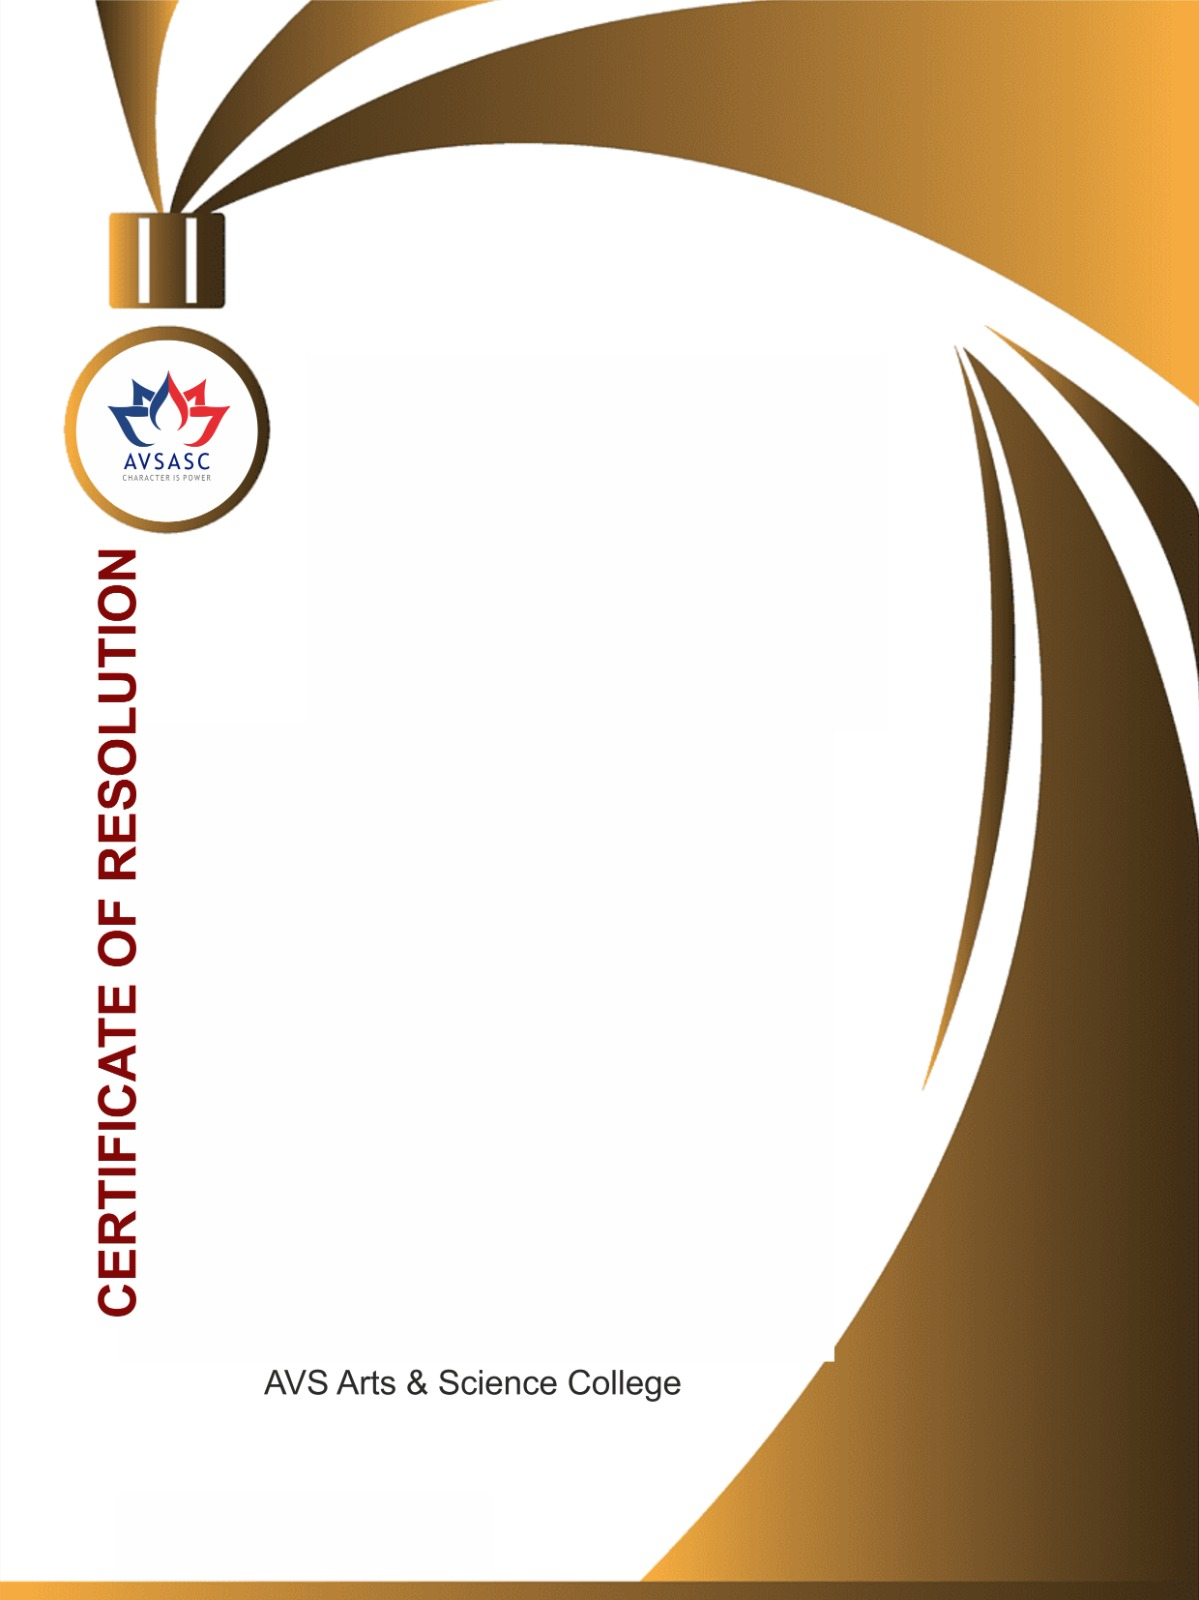
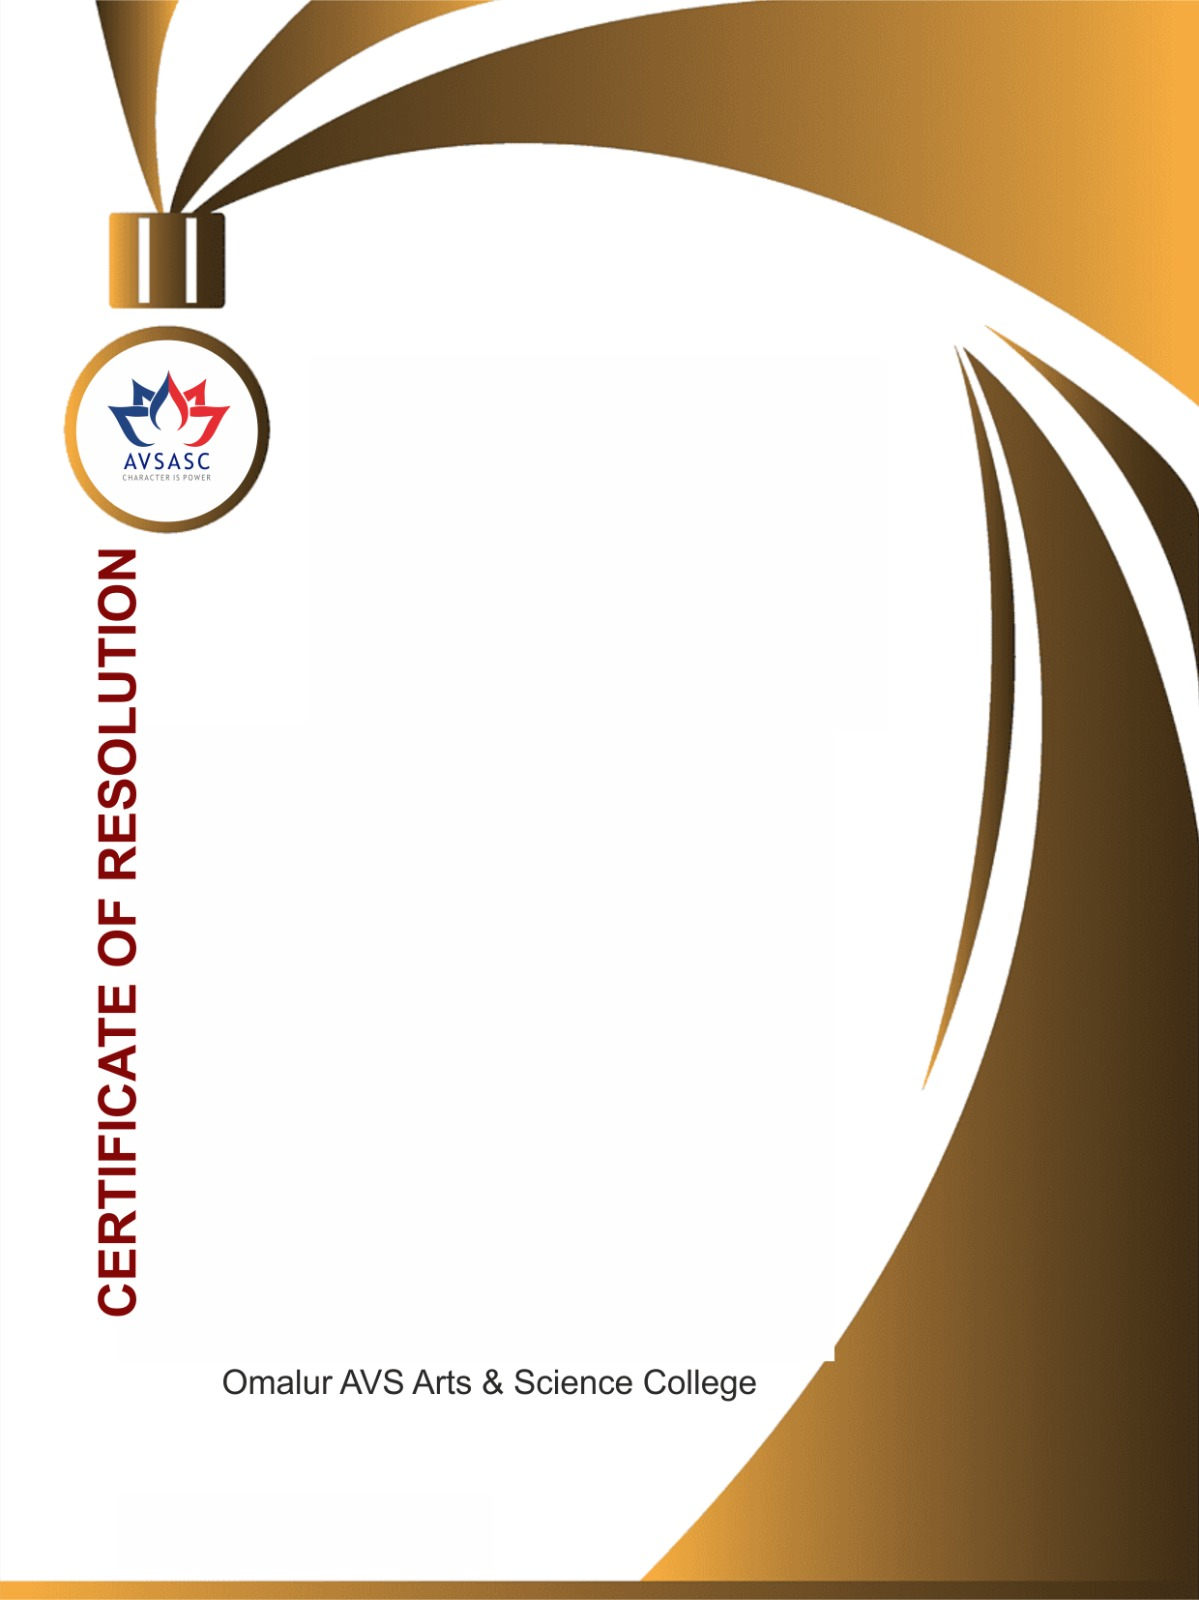
new updated

Changed region(s): [[0.1852, 0.8438, 0.648, 0.875], [0.0926, 0.7188, 0.1234, 0.75]]

diff --git a/script.js b/script.js
@@ -109,7 +109,7 @@ body {
 }
 
 .certificate {
-    background-image: url(./omaluravsarts.jpeg);
+    background-image: url(./avsarts.jpeg);
     background-repeat: no-repeat;
     background-size: cover;
     width: 80%;
@@ -254,7 +254,7 @@ h1 {
             <p class="recipient">This is to certify that</p>
             <img src="${photoSrc}" alt="Recipient Photo" class="recipient-photo">
             <h2 class="name">${name}</h2>
-            <p class="has_completed">My Resolution Is</p>
+            <p class="has_completed">New Year Resolution Is</p>
             <h3 class="course-name">"${message}"</h3>
         </div>
     </div>
